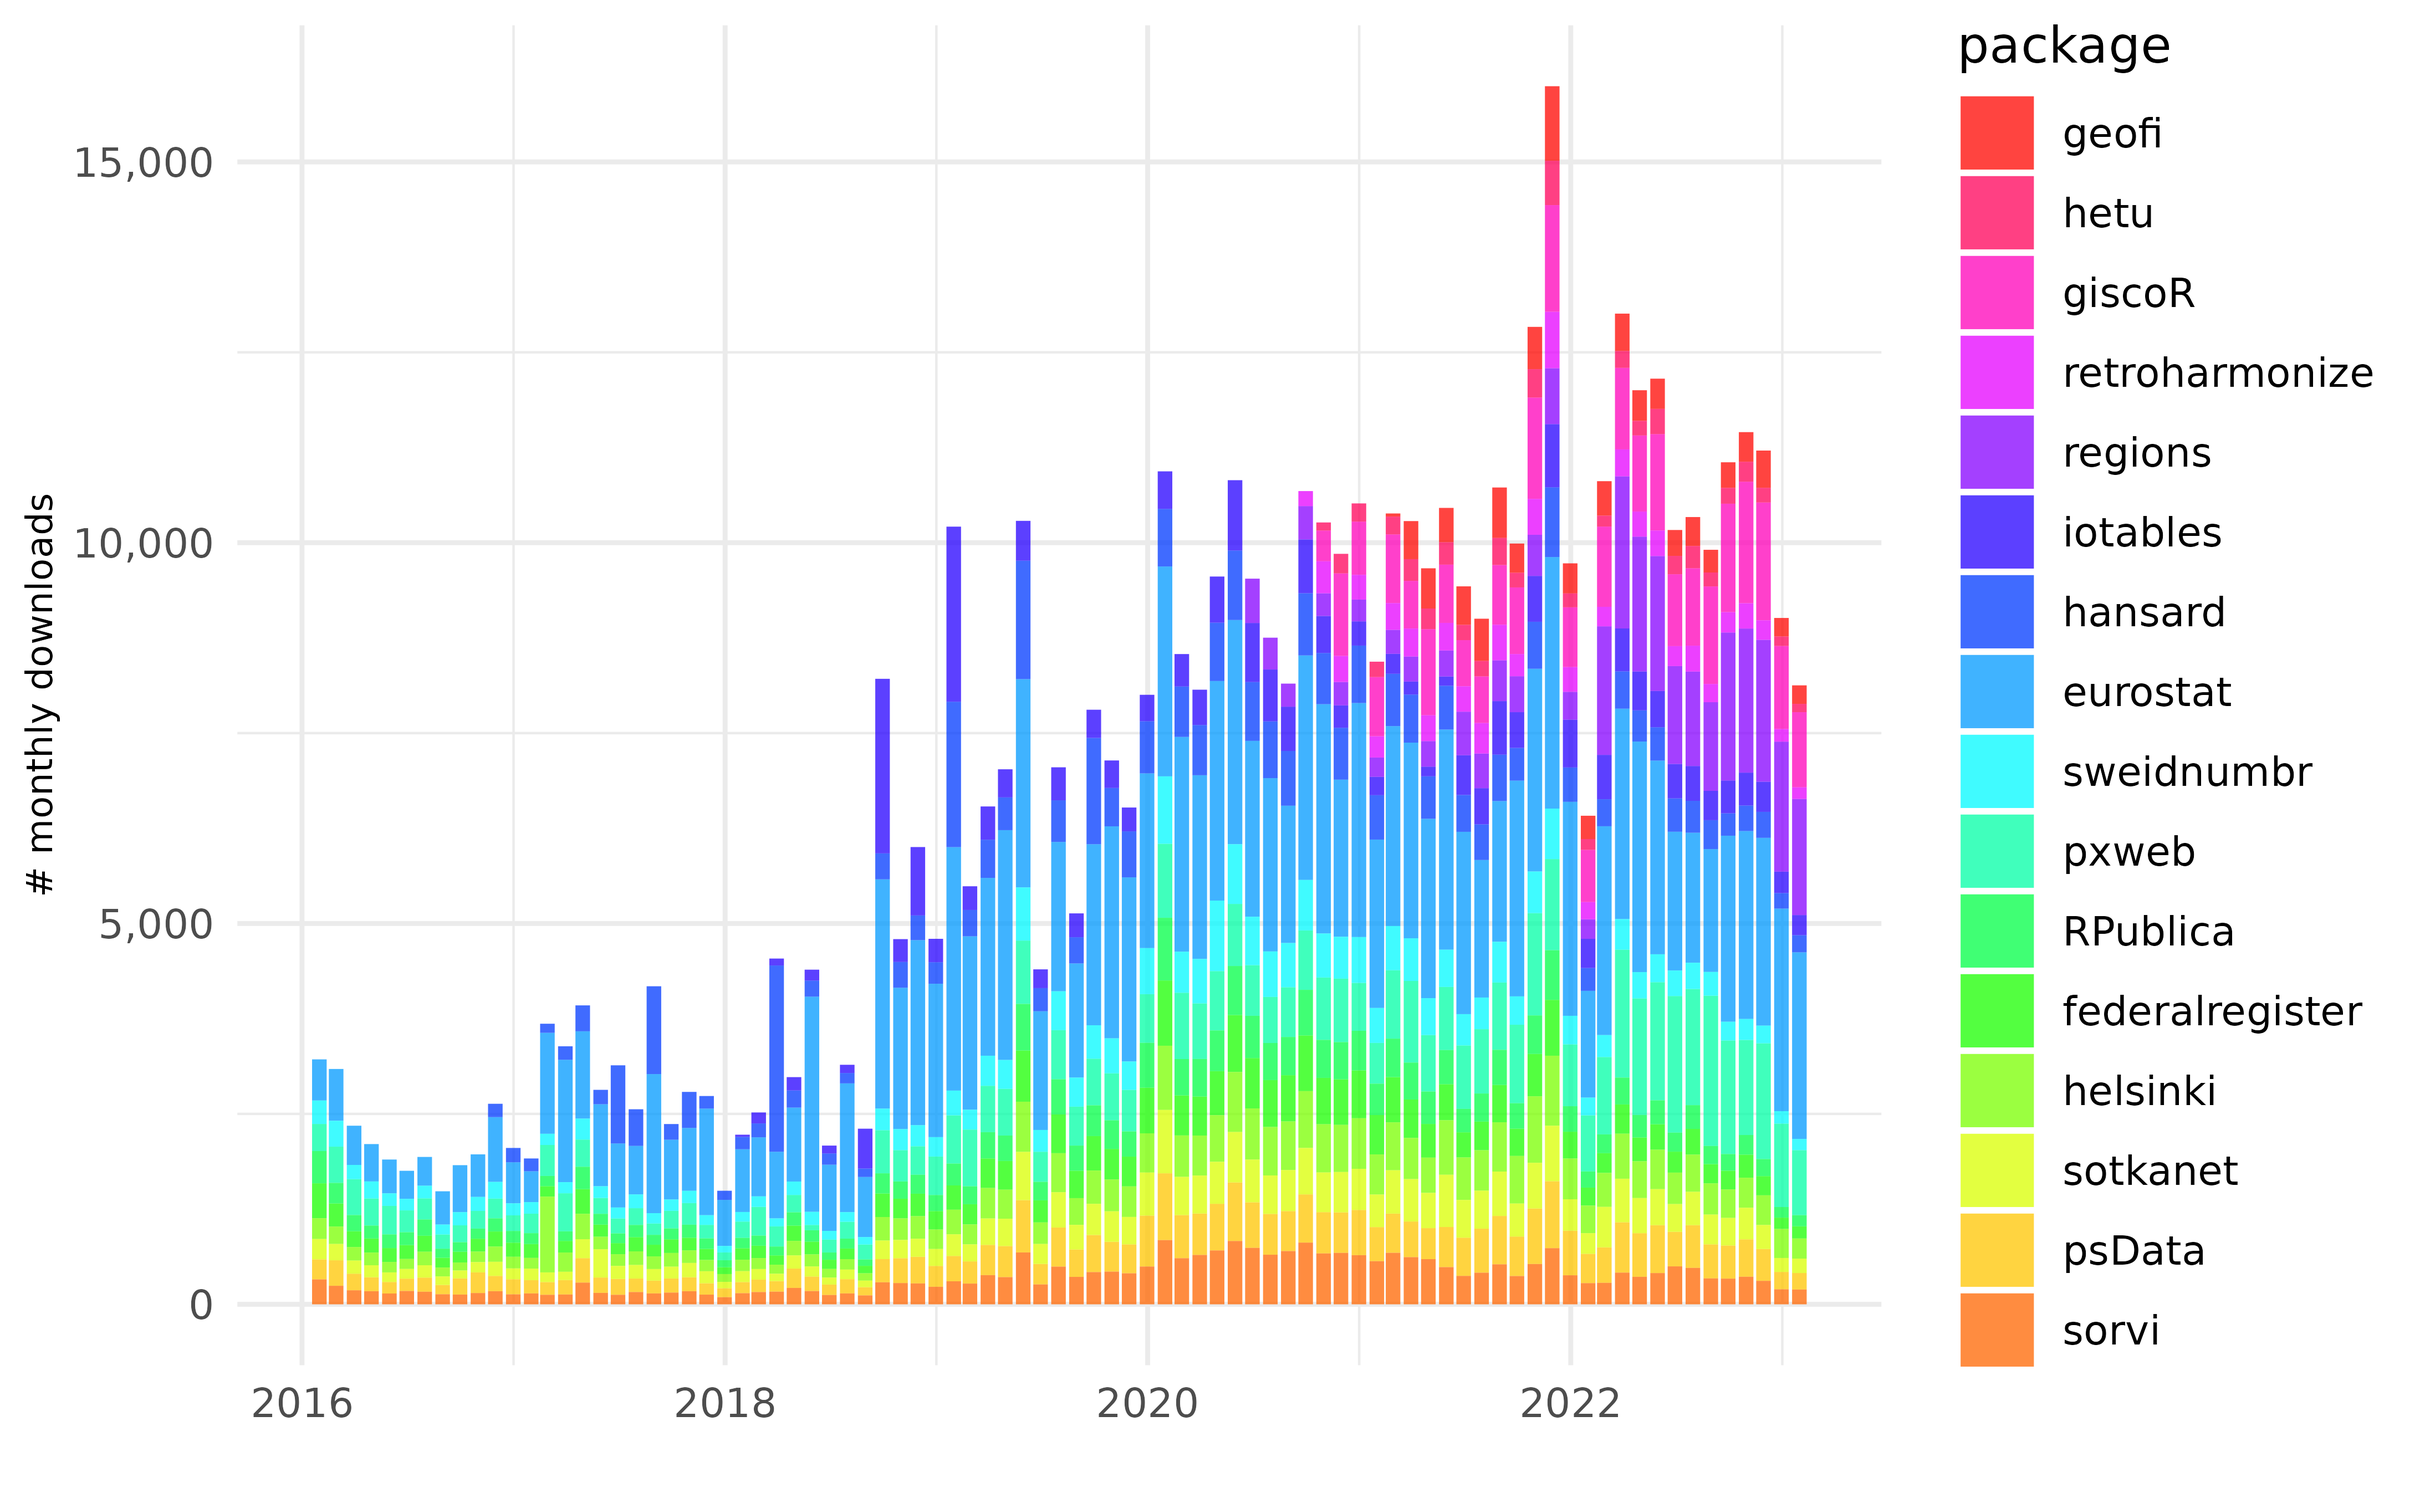
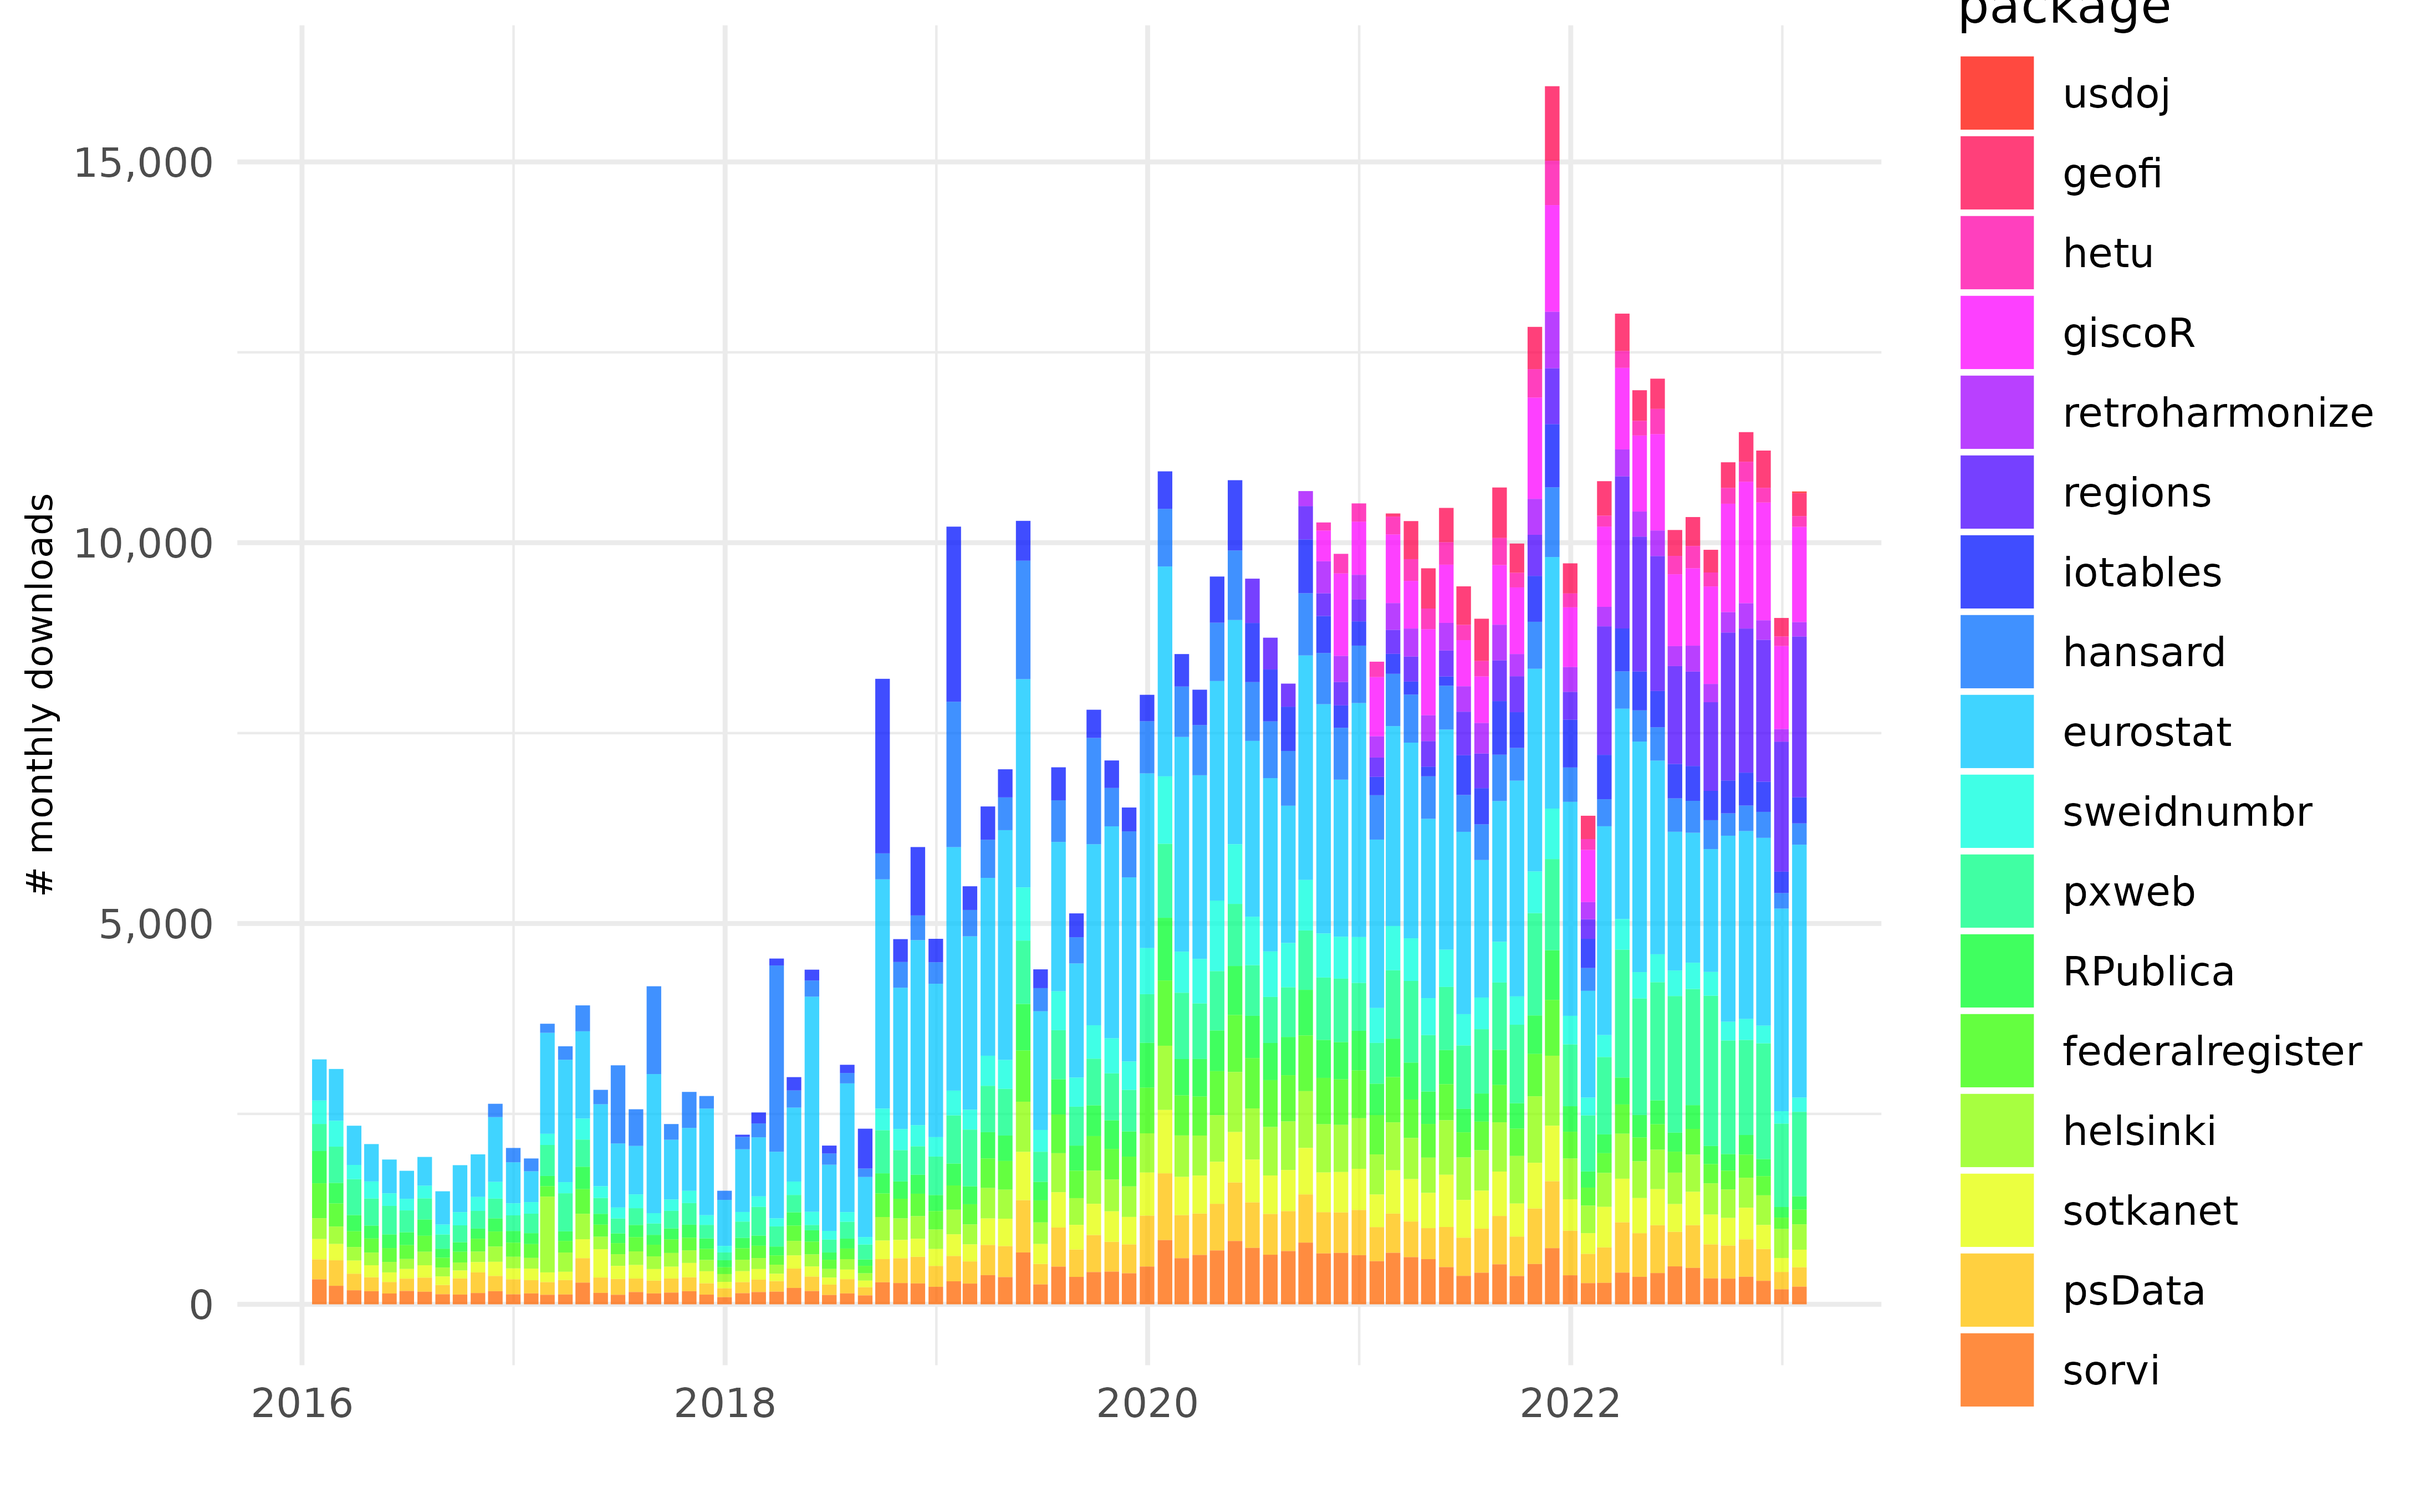
Built site for rogtemplate: 0.0.2.9000@b84a9f1

Changed region(s): [[0.1243, 0.0622, 0.7461, 0.8391], [0.8082, 0.0, 0.9947, 0.9634]]

diff --git a/articles/downloads.html b/articles/downloads.html
@@ -94,7 +94,7 @@
 
     
     
-<p><em>Updated: 26 Jan 2023</em></p>
+<p><em>Updated: 02 Feb 2023</em></p>
 <p>Downloads of rOpenGov packages from CRAN.</p>
 <div class="section level2">
 <h2 id="downloads">Downloads<a class="anchor" aria-label="anchor" href="#downloads"></a>
@@ -110,7 +110,7 @@
 <h2 id="data">Data<a class="anchor" aria-label="anchor" href="#data"></a>
 </h2>
 <div class="reactable html-widget html-fill-item-overflow-hidden html-fill-item" id="station-table" style="width:auto;height:auto;"></div>
-<script type="application/json" data-for="station-table">{"x":{"tag":{"name":"Reactable","attribs":{"data":{"package":["geofi","hetu","giscoR","retroharmonize","regions","iotables","hansard","eurostat","sweidnumbr","pxweb","RPublica","federalregister","helsinki","sotkanet","psData","sorvi"],"on CRAN":["2021-02-20","2020-10-15","2020-10-05","2020-09-21","2020-06-04","2018-01-30","2016-10-31","2015-03-20","2014-09-05","2014-09-03","2014-05-09","2014-05-08","2014-04-13","2014-04-06","2014-02-23","2013-09-30"],"avg daily downloads":[14.8,8.1,33.3,11.2,29,16.2,17.6,61.2,11.5,22.2,10.2,11.3,13.1,11.4,12.8,12],"last day":[9,2,58,3,66,6,4,96,2,39,2,5,3,2,4,5],"last week":[58,28,265,39,464,56,51,852,32,186,31,38,49,40,52,50],"last month":[267,121,1111,170,1717,288,249,2724,171,992,164,180,287,208,242,218],"last year":[4530,2528,14407,3330,19899,5293,4376,28951,3495,17446,3034,3308,5217,4744,5656,4235]},"columns":[{"id":"package","name":"package","type":"character"},{"id":"on CRAN","name":"on CRAN","type":"Date"},{"id":"avg daily downloads","name":"avg daily downloads","type":"numeric"},{"id":"last day","name":"last day","type":"numeric"},{"id":"last week","name":"last week","type":"numeric"},{"id":"last month","name":"last month","type":"numeric"},{"id":"last year","name":"last year","type":"numeric"}],"filterable":true,"searchable":true,"defaultPageSize":16,"showPageSizeOptions":true,"paginationType":"jump","striped":true,"elementId":"station-table","dataKey":"5cbc4caab4f48962247c749361e341bd"},"children":[]},"class":"reactR_markup"},"evals":[],"jsHooks":[]}</script>
+<script type="application/json" data-for="station-table">{"x":{"tag":{"name":"Reactable","attribs":{"data":{"package":["usdoj","geofi","hetu","giscoR","retroharmonize","regions","iotables","hansard","eurostat","sweidnumbr","pxweb","RPublica","federalregister","helsinki","sotkanet","psData","sorvi"],"on CRAN":["2023-01-30","2021-02-20","2020-10-15","2020-10-05","2020-09-21","2020-06-04","2018-01-30","2016-10-31","2015-03-20","2014-09-05","2014-09-03","2014-05-09","2014-05-08","2014-04-13","2014-04-06","2014-02-23","2013-09-30"],"avg daily downloads":[9,14.8,8.1,33.3,11.2,29.4,16.2,17.6,61.4,11.5,22.2,10.1,11.3,13.1,11.4,12.8,11.9],"last day":[15,11,6,61,8,72,7,7,109,4,31,4,6,11,8,10,4],"last week":[18,52,26,221,33,514,71,50,740,37,211,27,29,61,36,36,33],"last month":[18,303,138,1228,188,2092,338,278,3286,187,1102,167,193,330,230,253,231],"last year":[18,4503,2527,14508,3309,20420,5287,4371,29508,3486,17497,3012,3286,5196,4711,5586,4210]},"columns":[{"id":"package","name":"package","type":"character"},{"id":"on CRAN","name":"on CRAN","type":"Date"},{"id":"avg daily downloads","name":"avg daily downloads","type":"numeric"},{"id":"last day","name":"last day","type":"numeric"},{"id":"last week","name":"last week","type":"numeric"},{"id":"last month","name":"last month","type":"numeric"},{"id":"last year","name":"last year","type":"numeric"}],"filterable":true,"searchable":true,"defaultPageSize":17,"showPageSizeOptions":true,"paginationType":"jump","striped":true,"elementId":"station-table","dataKey":"c5dfb431792939392452901b920ff775"},"children":[]},"class":"reactR_markup"},"evals":[],"jsHooks":[]}</script>
 </div>
   </main><aside class="col-md-3"><nav id="toc"><h2>On this page</h2>
     </nav></aside>

diff --git a/reference/rog_logo.html b/reference/rog_logo.html
@@ -121,7 +121,7 @@ would run <code><a href="https://usethis.r-lib.org/reference/use_logo.html" clas
 <span class="r-in"><span><span class="va">tmp</span> <span class="op">&lt;-</span> <span class="fu"><a href="https://rdrr.io/r/base/tempfile.html" class="external-link">tempfile</a></span><span class="op">(</span>fileext <span class="op">=</span> <span class="st">".png"</span><span class="op">)</span></span></span>
 <span class="r-in"><span><span class="fu">rog_logo</span><span class="op">(</span><span class="st">"test a package"</span>, <span class="va">tmp</span>, overwrite <span class="op">=</span> <span class="cn">FALSE</span>, favicons <span class="op">=</span> <span class="cn">FALSE</span><span class="op">)</span></span></span>
 <span class="r-msg co"><span class="r-pr">#&gt;</span> B612 Mono font loaded</span>
-<span class="r-msg co"><span class="r-pr">#&gt;</span> Logo created on /tmp/RtmprIOqaW/file1ccc2e5542c7.png</span>
+<span class="r-msg co"><span class="r-pr">#&gt;</span> Logo created on /tmp/RtmpnoQvCv/file1cab2c05b62d.png</span>
 <span class="r-in"><span></span></span>
 <span class="r-in"><span><span class="co"># Display</span></span></span>
 <span class="r-in"><span><span class="va">logo</span> <span class="op">&lt;-</span> <span class="fu">magick</span><span class="fu">::</span><span class="fu"><a href="https://docs.ropensci.org/magick/reference/editing.html" class="external-link">image_read</a></span><span class="op">(</span><span class="va">tmp</span><span class="op">)</span></span></span>
